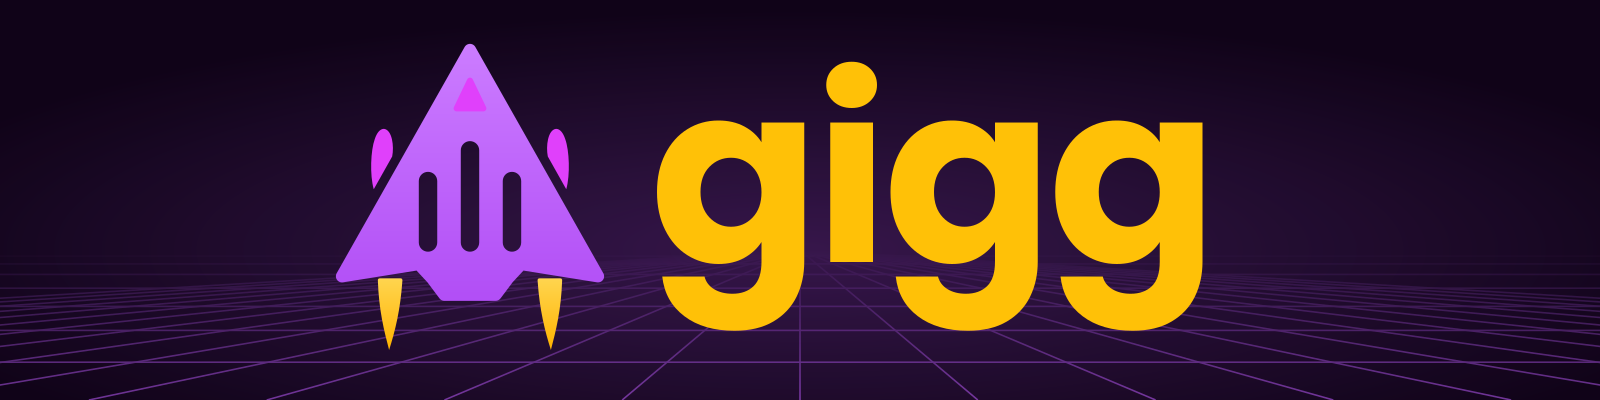
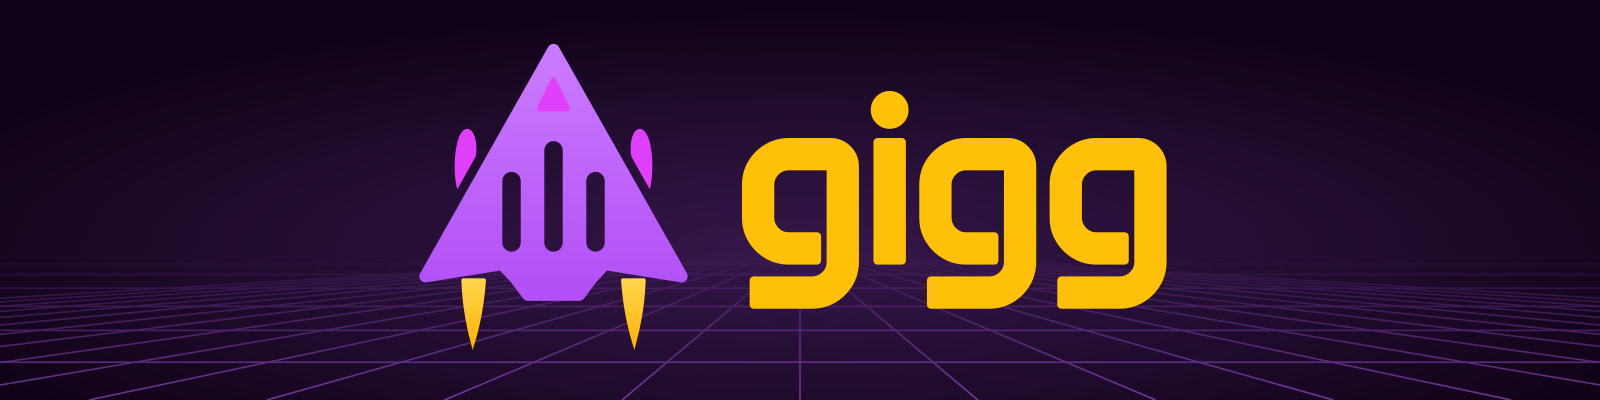
Brand: the wordmark in Anta, centred on the ship
The wordmark ("gigg") and the link preview's tagline are set in Anta (SIL OFL) instead of Poppins.
Anta has one weight, so both get an outline in their own colour, a faux bold. The wordmark used to
sit high next to the ship: gen.py now measures the word's ink box (the i's dot to the g's tail) with
Pillow and centres it on the ship's height, at 70% of it, and centres ship and word as one group.
The banner, the link preview (web/public/og-image.png) and the README header (logo-wordmark,
dark and light) are regenerated; the icons and marks are unchanged. The tools image installs Anta
from its npm package, pinned by sha256, in place of Poppins.

Changed region(s): [[0.1875, 0.12, 0.75, 0.87]]

diff --git a/assets/brand/tools/gen.py b/assets/brand/tools/gen.py
@@ -94,7 +94,16 @@ f16 = (f'<rect width="16" height="16" rx="3" fill="{DARK["bg"]}"/>'
        f'<rect x="3.5" y="12.5" width="1.5" height="2.5" fill="{DARK["text"]}"/><rect x="11" y="12.5" width="1.5" height="2.5" fill="{DARK["text"]}"/>')
 write("favicon-16.svg", svg(16, 16, f16))
 
-# 5. Banner and social preview: perspective grid, ship + "gigg" wordmark (Poppins Bold).
+# 5. Banner, social preview and README header: ship + "gigg" wordmark in Anta (SIL OFL). Anta has one
+# weight, so the wordmark and the tagline get an outline in their own colour (a faux bold). The word is
+# centred on the ship by its measured ink box (the i's dot to the g's tail), not by its baseline.
+from PIL import ImageFont  # noqa: E402
+
+ANTA = "/usr/share/fonts/anta/Anta_400Regular.ttf"
+TAGLINE = "Hand work to your AI agents, and keep an eye on it."
+SHIP_H, SHIP_W, SHIP_GAP = 300, 260, 50
+
+
 def grid(w, h, horizon, c, lines_on=True):
     vx = w / 2
     lines = []
@@ -115,21 +124,46 @@ def grid(w, h, horizon, c, lines_on=True):
             + (f'<g stroke="{c["grid"]}" stroke-width="1.6" mask="url(#gridfade)">{"".join(lines)}</g>' if lines_on else ""))
 
 
-def wordmark(x, baseline, size, c):
-    return (f'<text x="{x}" y="{baseline}" font-family="Poppins" font-weight="700" font-size="{size}" '
-            f'letter-spacing="-{size * 0.02:.1f}" fill="{c["text"]}">gigg</text>')
+def ink(size, text, spacing=0.0):
+    """The text's ink box relative to the left end of its baseline: (x0, top, x1, bottom)."""
+    x0, y0, x1, y1 = ImageFont.truetype(ANTA, size).getbbox(text, anchor="ls")
+    return x0, y0, x1 - spacing * size * (len(text) - 1), y1
 
 
-write("banner.svg", svg(1600, 400, grid(1600, 400, 250, DARK) + place(DARK, "b", 470, 200, 300) + wordmark(650, 262, 250, DARK)))
-# social preview: the glow without the grid; ship + wordmark centred (ship ~260 wide, 50 gap, wordmark ~2.2 x
-# size wide), the README's tagline centred under them
-og = (grid(1200, 630, 300, DARK, lines_on=False) + place(DARK, "o", 366, 250, 300) + wordmark(546, 250, 190, DARK)
-      + f'<text x="600" y="490" text-anchor="middle" font-family="Poppins" font-weight="500" font-size="38" '
-        f'fill="{DARK["tag"]}">Hand work to your AI agents, and keep an eye on it.</text>')
-write("og-image.svg", svg(1200, 630, og))
+def bold(fill, size, k):
+    return f'fill="{fill}" stroke="{fill}" stroke-width="{size * k:.2f}" stroke-linejoin="round"'
+
+
+def lockup(c, uid, cx, cy, word_fill, max_w):
+    """Ship + wordmark centred on (cx, cy): the word's ink 70% of the ship's height (narrower if it must)."""
+    size = 200
+    while True:
+        x0, y0, x1, y1 = ink(size, "gigg", 0.02)
+        if y1 - y0 >= 0.7 * SHIP_H or x1 - x0 > max_w:
+            break
+        size += 2
+    while x1 - x0 > max_w:
+        size -= 2
+        x0, y0, x1, y1 = ink(size, "gigg", 0.02)
+    left = cx - (SHIP_W + SHIP_GAP + x1 - x0) / 2
+    return (place(c, uid, left + SHIP_W / 2, cy, SHIP_H)
+            + f'<text x="{left + SHIP_W + SHIP_GAP - x0:.1f}" y="{cy - (y0 + y1) / 2:.1f}" font-family="Anta" '
+              f'font-size="{size}" letter-spacing="-{size * 0.02:.1f}" {bold(word_fill, size, 0.035)}>gigg</text>')
+
+
+def tagline(cx, top, size, c):
+    _, y0, _, _ = ink(size, TAGLINE)
+    return (f'<text x="{cx}" y="{top - y0:.1f}" text-anchor="middle" font-family="Anta" font-size="{size}" '
+            f'{bold(c["tag"], size, 0.045)}>{TAGLINE}</text>')
+
+
+write("banner.svg", svg(1600, 400, grid(1600, 400, 250, DARK) + lockup(DARK, "b", 800, 200, DARK["text"], 900)))
+# social preview: the glow without the grid; ship + wordmark, the README's tagline 55 px under the flames
+write("og-image.svg", svg(1200, 630, grid(1200, 630, 275, DARK, lines_on=False) + lockup(DARK, "o", 600, 275, DARK["text"], 750)
+                          + tagline(600, 275 + SHIP_H / 2 + 55, 40, DARK)))
 
 # 6. README header: ship + wordmark on transparent, no backdrop. The amber wordmark is for dark pages;
 # the light variant (darker hull, violet wordmark) stays readable on white.
-write("logo-wordmark.svg", svg(910, 340, place(DARK, "wd", 150, 170, 300) + wordmark(330, 232, 250, DARK)))
-write("logo-wordmark-light.svg", svg(910, 340, place(LIGHT, "wl", 150, 170, 300) + wordmark(330, 232, 250, dict(LIGHT, text="#7B2FC0"))))
+write("logo-wordmark.svg", svg(910, 340, lockup(DARK, "wd", 455, 170, DARK["text"], 560)))
+write("logo-wordmark-light.svg", svg(910, 340, lockup(LIGHT, "wl", 455, 170, "#7B2FC0", 560)))
 print("svgs:", sorted(os.listdir(OUT)))

diff --git a/assets/brand/README.md b/assets/brand/README.md
@@ -20,7 +20,7 @@ The logo is a delta starship whose hull has three kanban columns cut into it, wi
 
 **Palette:** `#100318` background, `#BE5CFF` violet, `#E040FB` magenta, `#FFC107` amber, plus `#F4EFE6` and `#7B2FC0` for the light versions.
 
-**Wordmark font:** Poppins Bold (SIL Open Font License). The banner and OG SVGs use it as live text, so render them where Poppins is installed. The tools image installs it.
+**Wordmark font:** Anta (SIL Open Font License), for the wordmark and the tagline. It has one weight, so both get an outline in their own colour as a faux bold. The banner, OG and README-header SVGs use it as live text, so render them where Anta is installed; the tools image installs it, and gen.py measures it to centre the wordmark on the ship.
 
 ## Regenerating
 

diff --git a/CHANGELOG.md b/CHANGELOG.md
@@ -7,6 +7,8 @@
 - Docs: the README opens with a transparent logo (light and dark variants) and tells gigs
   (prompt-based, for agents to think through) from errands (commands run on a schedule); the themes
   guide covers **Make with AI**.
+- Brand: the wordmark and the link preview's tagline are set in Anta (SIL OFL), bolder, with the
+  wordmark centred on the ship; the banner, the link preview and the README header follow.
 
 ## 0.1.0 (2026-11-19)
 
